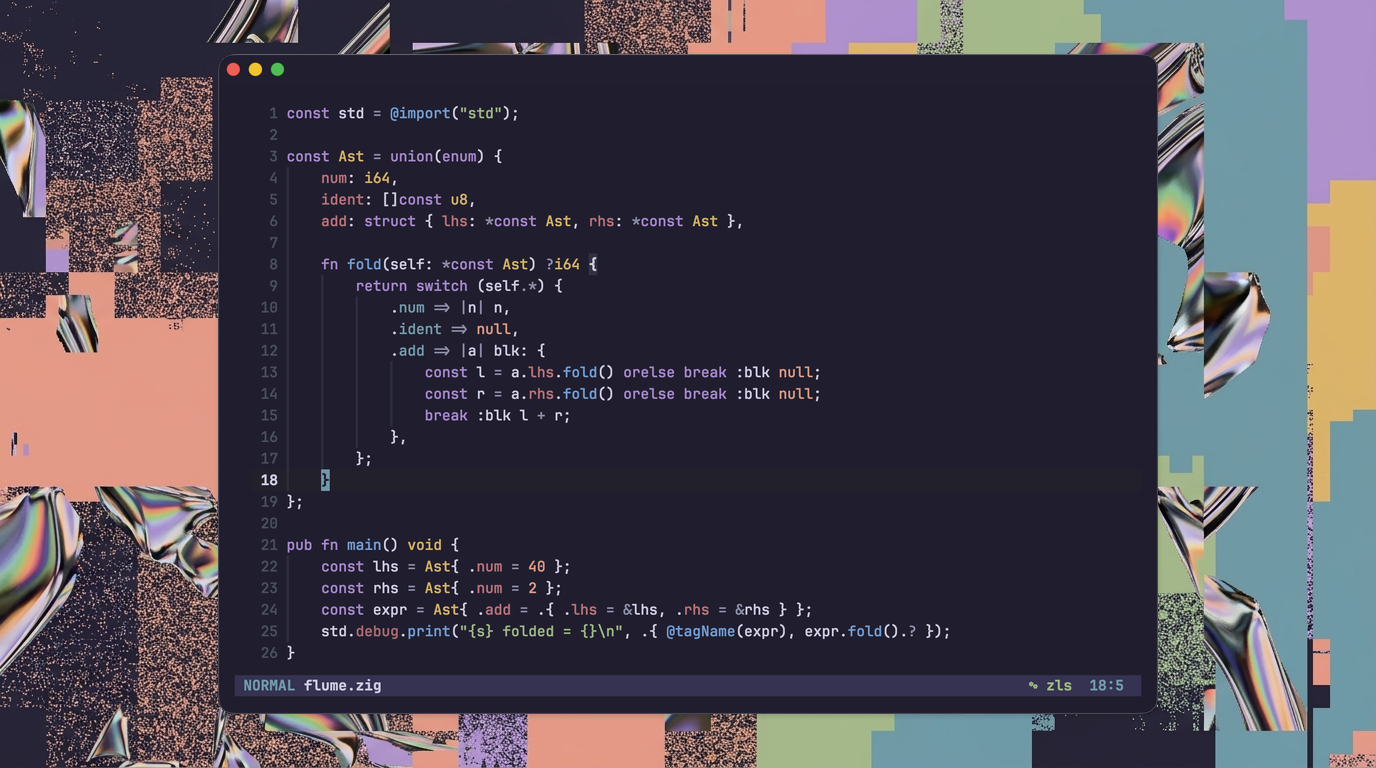
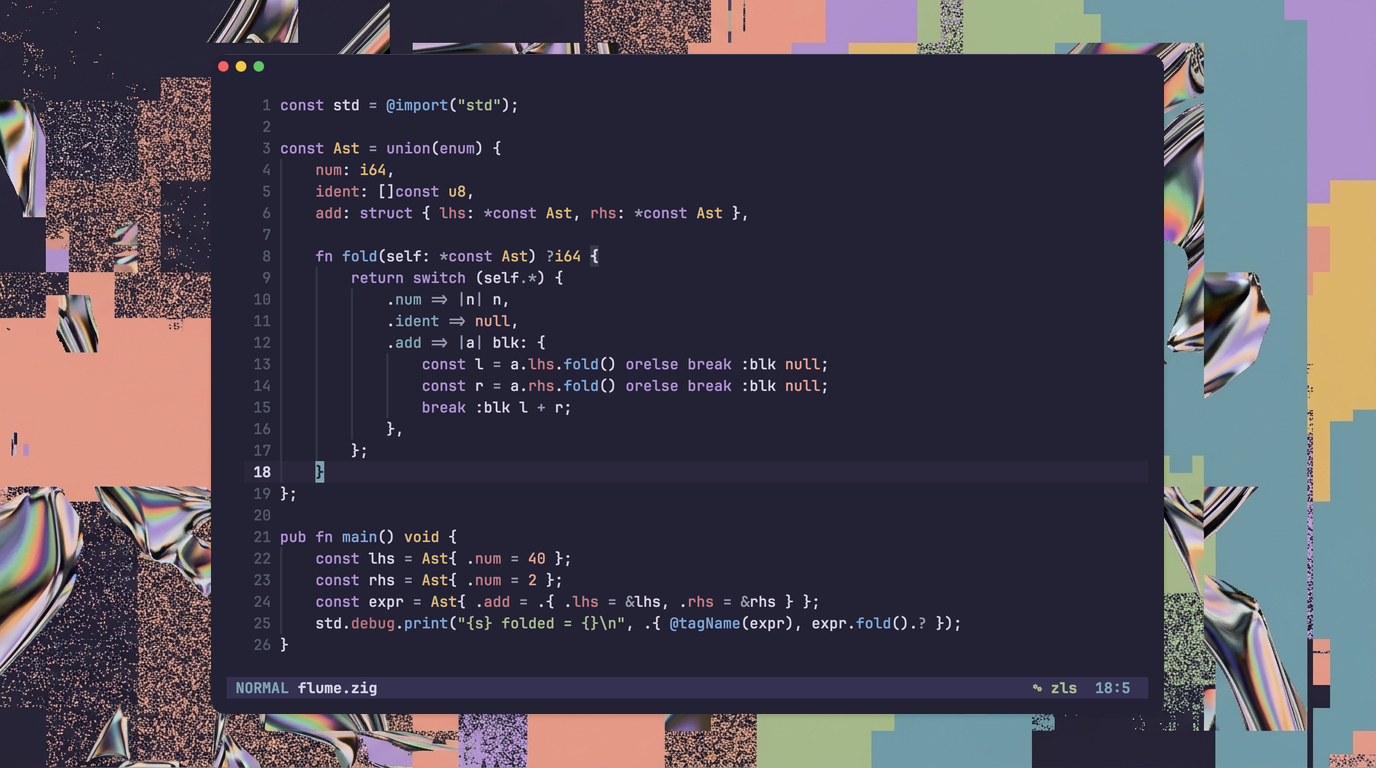
screenshot: simplify capture workflow

diff --git a/scripts/compose_header.py b/scripts/compose_header.py
@@ -1,0 +1,102 @@
+from pathlib import Path
+
+from PIL import Image, ImageDraw, ImageFilter
+
+ROOT_DIR = Path(__file__).resolve().parent.parent
+BACKGROUND_SOURCE = ROOT_DIR / "scripts" / "assets" / "flume_glitch_bg.jpg"
+RAW_SCREENSHOT = ROOT_DIR / "screenshot_raw.png"
+BACKGROUND_OUTPUT = ROOT_DIR / "background.png"
+SCREENSHOT_OUTPUT = ROOT_DIR / "screenshot.png"
+
+MAX_WINDOW_WIDTH = 0.88
+MAX_WINDOW_HEIGHT = 0.86
+CORNER_RADIUS = 16
+SHADOW_PADDING = 10
+SHADOW_OFFSET_Y = 2
+SHADOW_COLOR = (12, 10, 18, 30)
+
+
+def crop_to_opaque_bounds(image):
+    alpha = image.split()[-1]
+    opaque_mask = alpha.point(lambda p: 255 if p == 255 else 0)
+    bounds = opaque_mask.getbbox()
+    return image.crop(bounds) if bounds else image
+
+
+def fit_inside(source_size, target_size):
+    source_width, source_height = source_size
+    max_width, max_height = target_size
+    source_ratio = source_width / source_height
+
+    width = max_width
+    height = int(width / source_ratio)
+
+    if height > max_height:
+        height = max_height
+        width = int(height * source_ratio)
+
+    return width, height
+
+
+def round_corners(image, radius):
+    mask = Image.new("L", image.size, 0)
+    draw = ImageDraw.Draw(mask)
+    draw.rounded_rectangle((0, 0, image.width, image.height), radius, fill=255)
+
+    rounded = Image.new("RGBA", image.size)
+    rounded.paste(image, (0, 0), mask=mask)
+    return rounded
+
+
+def make_shadow(size, radius):
+    width, height = size
+    shadow = Image.new(
+        "RGBA",
+        (width + SHADOW_PADDING * 2, height + SHADOW_PADDING * 2),
+        (0, 0, 0, 0),
+    )
+    draw = ImageDraw.Draw(shadow)
+    draw.rounded_rectangle(
+        (SHADOW_PADDING, SHADOW_PADDING, SHADOW_PADDING + width, SHADOW_PADDING + height),
+        radius,
+        fill=SHADOW_COLOR,
+    )
+    return shadow.filter(ImageFilter.GaussianBlur(2))
+
+
+def compose_header(background, window):
+    max_window_size = (
+        int(background.width * MAX_WINDOW_WIDTH),
+        int(background.height * MAX_WINDOW_HEIGHT),
+    )
+    window_size = fit_inside(window.size, max_window_size)
+    window = window.resize(window_size, Image.Resampling.LANCZOS)
+    window = round_corners(window, CORNER_RADIUS)
+    shadow = make_shadow(window_size, CORNER_RADIUS)
+
+    window_x = (background.width - window.width) // 2
+    window_y = (background.height - window.height) // 2
+    shadow_x = window_x - SHADOW_PADDING
+    shadow_y = window_y - SHADOW_PADDING + SHADOW_OFFSET_Y
+
+    background.alpha_composite(shadow, (shadow_x, shadow_y))
+    background.alpha_composite(window, (window_x, window_y))
+    return background
+
+
+def main():
+    if not RAW_SCREENSHOT.exists():
+        raise SystemExit(f"Missing {RAW_SCREENSHOT}. Run scripts/screenshot-window.sh first.")
+
+    background = Image.open(BACKGROUND_SOURCE).convert("RGBA")
+    window = Image.open(RAW_SCREENSHOT).convert("RGBA")
+    window = crop_to_opaque_bounds(window)
+
+    background.convert("RGB").save(BACKGROUND_OUTPUT, "PNG", optimize=True)
+    compose_header(background, window).convert("RGB").save(SCREENSHOT_OUTPUT, "PNG", optimize=True)
+
+    print(f"Saved {SCREENSHOT_OUTPUT}")
+
+
+if __name__ == "__main__":
+    main()
